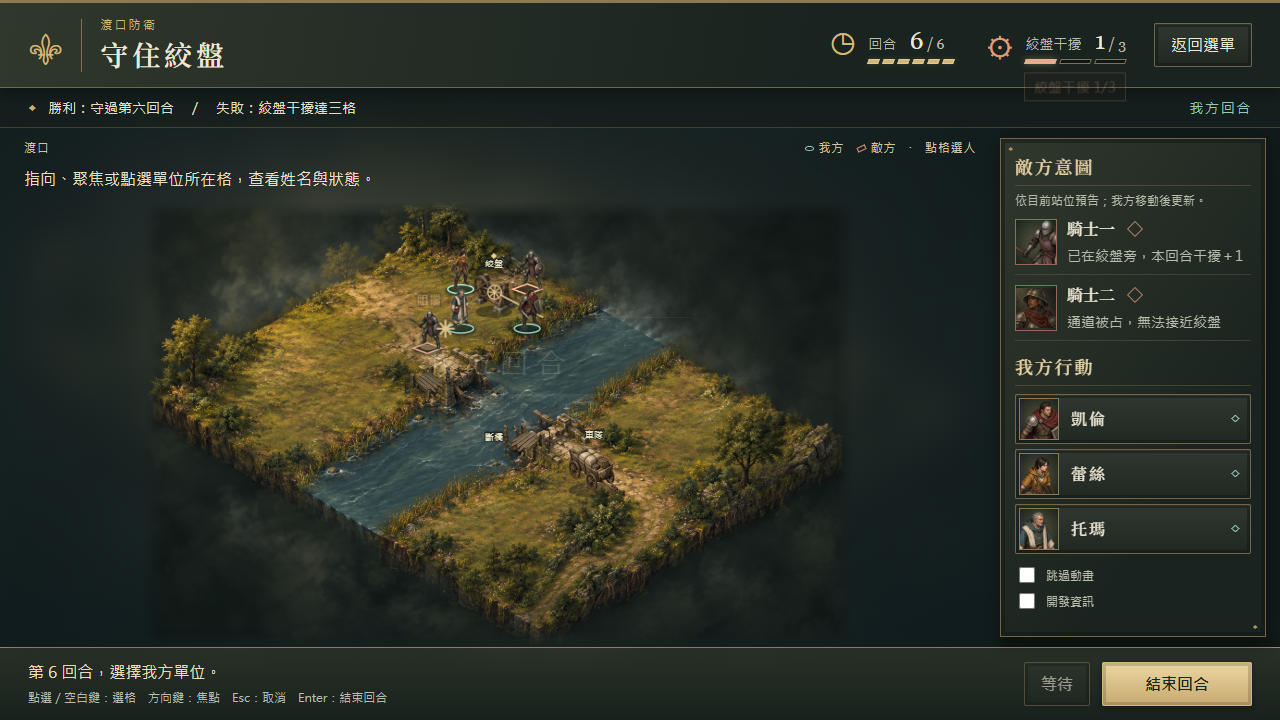
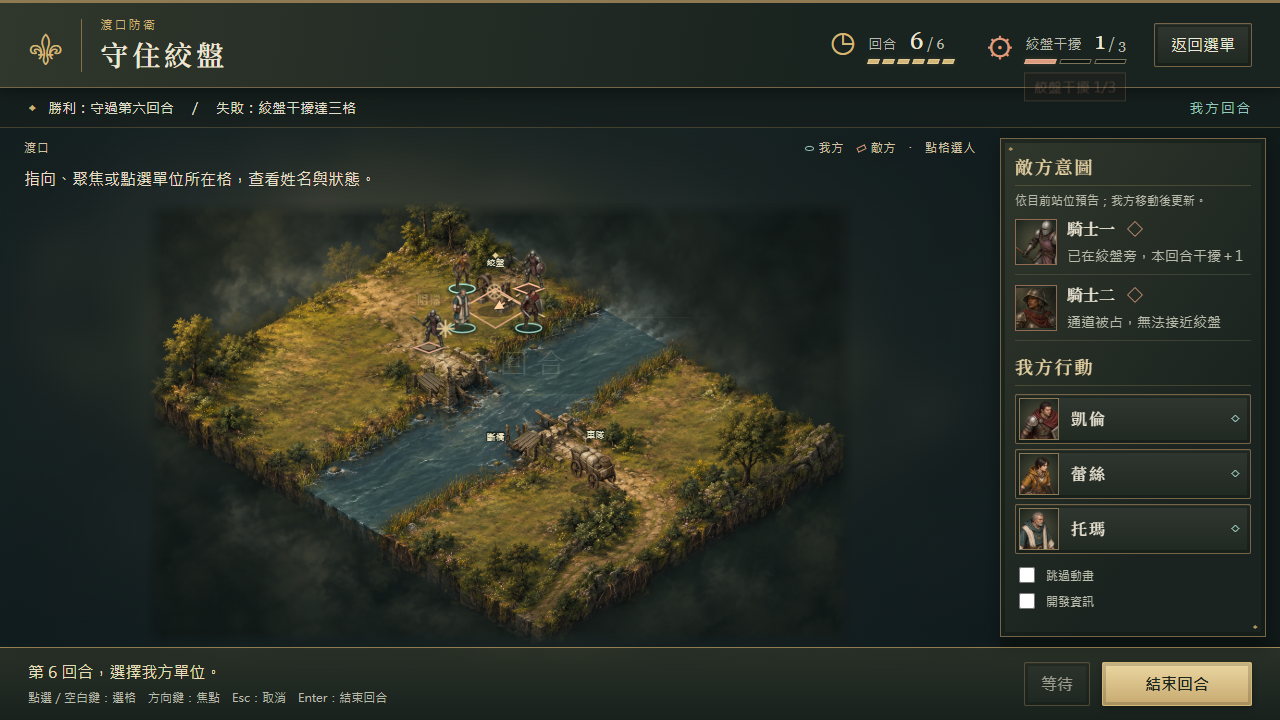
feat(ui): add P1v5 step 3 animated enemy intent telegraphs

Changed region(s): [[0.2812, 0.4889, 0.6562, 0.8556], [0.125, 0.3056, 0.4688, 0.6722]]

diff --git a/ui-prototype/src/playable-l03/PlayableL03.tsx b/ui-prototype/src/playable-l03/PlayableL03.tsx
@@ -242,6 +242,18 @@ export function PlayableL03({ onExit }: { onExit: () => void }) {
           {active && !busy && enemyPaths.map((e, i) => <polyline key={e.unit} data-p1v-intent-path={e.unit}
             points={e.path.map(p => `${center(p).x},${center(p).y}`).join(" ")}
             className={`p1v-intent-path knight-${i}`} markerEnd={`url(#${uid}-arrow)`} />)}
+          {active && !busy && <g className="p1v-telegraphs" aria-hidden="true">
+            {intents.map(e => {
+              const path = enemyPaths.find(p => p.unit === e.unit)?.path;
+              const target = path?.[path.length-1] || (e.reason === "turn-winch" ? MAP.winch : null);
+              if (!target) return null;
+              const from = center(state.units.find(u => u.id === e.unit)!.cell), to = center(target);
+              return <g key={e.unit}>
+                <polygon className="p1v-intent-target" data-p1v-intent-target={e.unit} data-target={key(target)} points={sceneDiamond(target.x,target.y)} />
+                {!path && <path className="p1v-intent-path" data-p1v-winch-intent={e.unit} d={`M${from.x} ${from.y}L${to.x} ${to.y}`} markerEnd={`url(#${uid}-arrow)`} />}
+              </g>;
+            })}
+          </g>}
           {cells.map(p => {
             const occupant = state.units.find(u => key(u.cell) === key(p));
             const canMove = legal.has(key(p)), chosen = !!occupant && occupant.id === (inspected || selected);

diff --git a/ui-prototype/src/playable-l03/playable.css b/ui-prototype/src/playable-l03/playable.css
@@ -168,6 +168,11 @@
 @keyframes p1v-warning { 50% { stroke:#ffb298; fill:#ab433355; } }
 @keyframes p1v-defeat { from { opacity:0; backdrop-filter:blur(0); } to { opacity:1; backdrop-filter:blur(3px); } }
 .p1v-feedback-layer { pointer-events:none; }
+.p1v-telegraphs { pointer-events:none; }
+.p1v-intent-path { animation:p1v-intent-flow 1s linear infinite; }
+.p1v-intent-target { fill:#d58c6b18; stroke:#eeb08a; stroke-width:2; animation:p1v-threat-pulse 1.4s ease-in-out infinite; }
+@keyframes p1v-intent-flow { to { stroke-dashoffset:-24; } }
+@keyframes p1v-threat-pulse { 50% { fill:#d58c6b55; stroke:#ffdab1; stroke-width:3; } }
 .p1v-impact-scene { animation:p1v-impact-shake .24s ease-out; }
 .p1v-block-recoil { animation:p1v-recoil .3s ease-out; }
 .p1v-impact-dust { fill:#c1af83; opacity:0; transform-origin:center; transform-box:fill-box; animation:p1v-dust .45s ease-out; }
